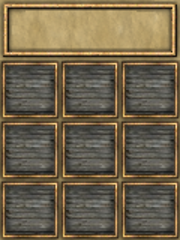
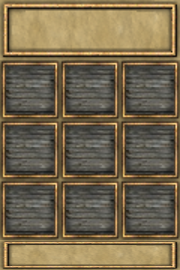
Inventory development

diff --git a/inventory.js b/inventory.js
@@ -30,9 +30,19 @@
 		// initialize variable to check if inventory is showing
 		this.isShowing = false;
 		
+		//Check the empty slots - Set to the first
+		this.slotNumber = 0;
+		
+		//Map of slots 0 - empty 1 - full
+		this.slotsMap = [0,0,0,0,0,0,0,0,0];
+		
+		//Comment on inventory
+		this.invComment = 'Inventario Vazio.';
+		
 		// Create html in inventoryLayer DIV
 		var $messageBoxHtml = (	'<img class="invImage" src="" alt="">' +
 								'<div class="invText"></div>' +
+								'<div class="invComment"></div>' +
 								'<img class="invSlot01"/>' + 
 								'<img class="invSlot02"/>' + 
 								'<img class="invSlot03"/>' + 
@@ -60,19 +70,14 @@
 			// Inventory name
 			$('.invText,#hiddenText').html('Inventario');
 			
-			// Test item on slot
-			for ( x = 1 ; x < 10 ; x++)
-			{
-				$('.invSlot0' + x ).attr({
-				'src' : 'content/sprites/items/vegetais.png',
-				'alt' : 'Testing...'});
-			}
+			// Show invComment
+			$('.invComment,#hiddenText').html(this.invComment);
+			
 			// Show inventory window with a fade
 			$('#inventoryLayer').fadeIn( 250, function() {
 				$('.msgText').scrollTop(0);
 			});
 
-			console.log("Show inventory...");
 			this.isShowing = true;
 			}
 	},
@@ -87,8 +92,34 @@
 	"remove" : function remove() {
 			
 	},
-	"add" : function add() {
+	"add" : function add( item ) {		
+		// Check empty slots - if no empty slots then warning player
+		this.slotNumber = jQuery.inArray(0, this.slotsMap);
+		console.log (this.slotNumber);
+		if (this.slotNumber != -1) {
+			//Keep data for all items found by the heroe
+			heroeItems.push( item );
 			
+			//This slot is full now
+			this.slotsMap[this.slotNumber] = 1;
+			
+			//Show item in inventory
+			$( '.invSlot0' + ( this.slotNumber + 1 ) ).attr({
+			'src' : 'content/sprites/items/' + item.imagem,
+			'alt' : ''});
+
+			//*** IMPROVE - Update invComment
+			this.invComment = '';
+			$('.invComment,#hiddenText').html(this.invComment);
+		}else{
+			//*** IMPROVE - Update invComment
+			console.log('Inventory full...');
+			this.invComment = 'Inventario cheio.';
+			$('.invComment,#hiddenText').html(this.invComment);
+			fullInventory = true;
+		}
+		
+
 	},
 	"use" : function use() {
 			

diff --git a/entities.js b/entities.js
@@ -58,6 +58,7 @@ var HeroeEntity = me.ObjectEntity.extend({
 		
 		//Check if is showing the inventory enable/disable
 		this.isShowInv = false;
+		
 	},
 
 
@@ -132,7 +133,7 @@ var HeroeEntity = me.ObjectEntity.extend({
 				this.setCurrentAnimation('stand-' + this.direction);
 			}
 			
-			if (res.obj.type == 'ITEM_OBJECT') {
+			if (res.obj.type == 'ITEM_OBJECT'  && !fullInventory) {
 				this.setCurrentAnimation('stand-' + this.direction);
 				this.vel.x = 0;
 				this.vel.y = 0;
@@ -183,7 +184,7 @@ var ItemEntity = me.CollectableEntity.extend({
 	{
 		var res = me.game.collide( this );
         if( res ) {
-			if( res.obj.name == 'heroe' ) {				
+			if( res.obj.name == 'heroe' && !fullInventory) {				
 				// If the answer is correct then update HUD and remove item
 				heroeAnswer = showQuestionLayer(this.items_data , this.rndQtnData);
 				if (heroeAnswer != -1)
@@ -192,7 +193,9 @@ var ItemEntity = me.CollectableEntity.extend({
 						me.game.HUD.updateItemValue(this.items_data.categoria, parseInt(this.items_data.valor));
 						
 						//Keep data for all items found by the heroe
-						heroeItems.push(this.items_data);
+						// heroeItems.push(this.items_data);
+						// **** TODO - Add item to inventory
+						adsGame.Inventory.add( this.items_data );
 						
 						hideQuestionLayer('C');
 					}else if(heroeAnswer != 0){ // if heroe answer to the question but it's not the correct one
@@ -203,6 +206,8 @@ var ItemEntity = me.CollectableEntity.extend({
 					}
 					me.game.remove(this);
 				}
+			}else if( res.obj.name == 'heroe' && fullInventory) {
+				adsGame.Inventory.show();
 			}
 		}
 	}
@@ -236,7 +241,7 @@ var ItemSpawnEntity = me.InvisibleEntity.extend({
 				// If tile of layer collision is null then we can put an item
 				if (testTileCollision == null && testTileBackground != null){
 					// Item probability
-					var item_probability = Number.prototype.random(0, 50);
+					var item_probability = Number.prototype.random(0, 20);
 					// Total of items
 					total_items = ads_items_data.length - 1;
 					random_item = Number.prototype.random(0, total_items);					

diff --git a/game.css b/game.css
@@ -31,7 +31,7 @@
 	#messageLayer {
 		position: absolute;
 		bottom: 50px;
-		left: 20px;
+		left: 400px;
 		width: 400px;
 		height: 110px;
 		padding: 10px;
@@ -79,7 +79,7 @@
 	#questionLayer {
 		position: absolute;
 		bottom: 20px;
-		left: 434px;
+		left: 0px;
 		width: 366px;
 		height: 308px;
 		padding: 10px;
@@ -196,7 +196,7 @@
 		top: 42px;
 		left: 627px;
 		width: 180px;
-		height: 240px;
+		height: 270px;
 		padding: 0px;
 		background: url('content/gui/inventory.png') no-repeat; 
 		display: none;
@@ -216,6 +216,18 @@
 		position: absolute;
 		top: 18px;
 		left: 55px;
+		color : #996600;
+		font-weight: bold;
+		font-size: 20px;
+		overflow: hidden;
+		z-index:1;
+	}
+	
+	/* Comment inventory*/
+	#inventoryLayer .invComment {
+		position: absolute;
+		bottom: 4px;
+		left: 13px;
 		color : #996600;
 		font-weight: bold;
 		font-size: 20px;
@@ -295,12 +307,12 @@
 		height: 32px;
 	}
 	
-		/* Slots inventory*/
+	/* Slots inventory*/
 	#inventoryLayer img.invSlot09 {
 		position: absolute;
 		top: 193px;
 		left: 134px;
 		width: 32px;
-		height: 32px;
+		height: 32px;i
 	}
 </style>	

diff --git a/resources.js b/resources.js
@@ -53,8 +53,12 @@ var countQtn = 0;
 
 // Global variables to test answer
 var heroeAnswer = -1;
+
 // If Question box is showing
-var showingQuestion = false; 
+var showingQuestion = false;
+
+// If Question box is showing
+var fullInventory = false; 
 
 // *********** MESSAGE SECTION ***********
 // adsGame.messageShowing = false; 
